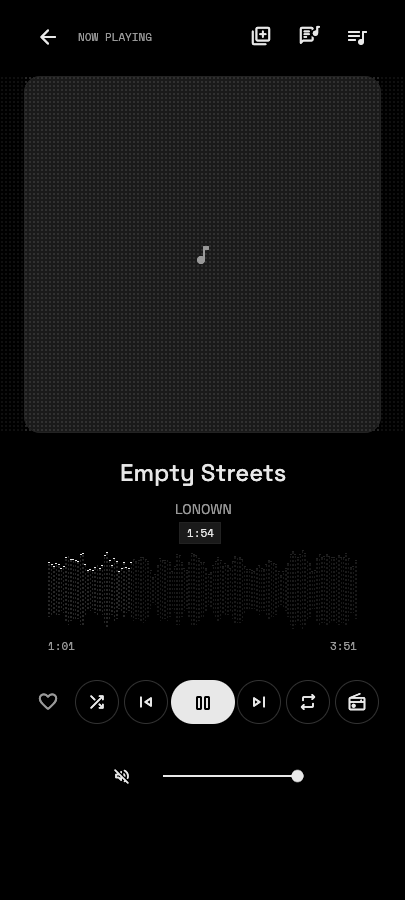
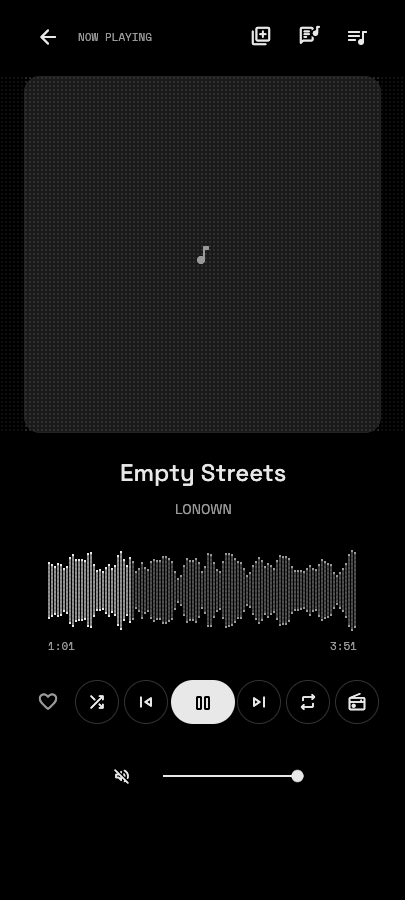
fix(player): solid waveform bars with a one pixel gap
- A 2 dp bar at the 3 dp pitch, with the bar count from the band width: 103 bars in the 309 dp player band, 6-81 px tall, drawn on integer edges so each column stays 2 px wide and every gap column stays empty.
- Dither rides on top of a base fill (played 0.55, unplayed 0.4) instead of replacing the bar; caps are 1 px rects top and bottom in on_surface / on_surface_variant.
- Half-pixel centres had grown the bars to three feathered columns at 15 % grey, which read as a dot raster instead of bars.
- Measured on the 405x900 shot: 103 bars, 102 empty 1 px gaps, max internal gap 1 px (0 columns above 2 px), caps 232 played / 153 unplayed, 28 played bars (27 %).
- Tests: bins_for_width pins 330 dp -> 110 and caps at 160 (116 total). Docs re-measured, manifest 275 files.

Changed region(s): [[0.1185, 0.56, 0.8889, 0.7156]]

diff --git a/crates/ui/src/widgets/waveform.rs b/crates/ui/src/widgets/waveform.rs
@@ -7,23 +7,30 @@
 
 use std::sync::Arc;
 
-use eframe::egui::{self, CursorIcon, Id, Pos2, Rect, Sense, Stroke, Ui, Vec2};
+use eframe::egui::{self, CursorIcon, Id, Pos2, Rect, Sense, Ui, Vec2};
 use egui::WidgetInfo;
 use ml_core::format_position;
 
 use super::{dither_bar, seek_bubble, seek_gesture, ProgressSliderResponse};
 use crate::theme::Theme;
 
-/// Bars per waveform: the reference sits at 120–160.
-pub const BINS: usize = 128;
+/// Bar pitch: a 2 dp bar with a 1 dp gap. The bar count follows the width;
+/// the reference's 120–160 bins only fit a 360–480 dp band at this pitch.
+pub const PITCH: f32 = 3.0;
+/// Width of one bar.
+const BAR_WIDTH: f32 = 2.0;
 /// Waveform band height in dp.
 pub const WAVE_HEIGHT: f32 = 80.0;
 /// Played bars: the design rule's upper dither bound.
 const PLAYED_STRENGTH: f32 = 0.3;
 /// Unplayed bars stay visible but recede.
 const UNPLAYED_STRENGTH: f32 = 0.2;
-/// Shortest bar so quiet passages still show a dotted line.
-const MIN_BAR: f32 = 8.0;
+/// Shortest bar so quiet passages still show a line.
+const MIN_BAR: f32 = 6.0;
+/// Base fill of a bar: the column must read end to end, the dither is texture
+/// inside it, not its replacement.
+const PLAYED_BASE: f32 = 0.55;
+const UNPLAYED_BASE: f32 = 0.4;
 
 /// Seek control drawn as a dithered bar waveform. Returns the same response
 /// shape as the line slider it replaces.
@@ -38,16 +45,27 @@ pub fn waveform_slider(
     let (rect, mut response) =
         ui.allocate_exact_size(Vec2::new(width, WAVE_HEIGHT), Sense::click_and_drag());
     let gesture = seek_gesture(ui, &mut response, position_ms, duration_ms, rect);
-    let bars = wave_bars(ui.ctx(), song_id);
+    let bins = bins_for_width(rect.width());
+    let bars = wave_bars(ui.ctx(), song_id, bins);
     let painter = ui.painter();
-    let bins = bars.len();
-    let pitch = rect.width() / bins as f32;
-    let bar_width = (pitch * 0.6).max(1.0);
+    // Integer edges: a half-pixel bar grew to three feathered columns and the
+    // 1 dp gaps lit up at 15 % grey.
+    let left = rect.left().round();
+    let center = rect.center().y.round();
     for (index, amplitude) in bars.iter().enumerate() {
-        let x = rect.left() + (index as f32 + 0.5) * pitch;
-        let height = MIN_BAR + amplitude * (rect.height() - MIN_BAR);
-        let bar = Rect::from_center_size(Pos2::new(x, rect.center().y), Vec2::new(bar_width, height));
+        let x = left + index as f32 * PITCH;
+        let height = (MIN_BAR + amplitude * (rect.height() - MIN_BAR)).round();
+        let top = center - (height / 2.0).round();
+        let bar = Rect::from_min_max(Pos2::new(x, top), Pos2::new(x + BAR_WIDTH, top + height));
         let played = bin_is_played(index, bins, gesture.shown);
+        // A continuous column carries the amplitude; the dot texture rides on
+        // top of it. A dither-only 2 dp bar fell apart into single dots.
+        let base = if played {
+            app_theme.scheme.on_surface.gamma_multiply(PLAYED_BASE)
+        } else {
+            app_theme.scheme.on_surface_variant.gamma_multiply(UNPLAYED_BASE)
+        };
+        painter.rect_filled(bar, 0, base);
         dither_bar(
             painter,
             bar,
@@ -57,18 +75,21 @@ pub fn waveform_slider(
                 UNPLAYED_STRENGTH
             },
         );
-        // 1-px cap: at 1.5 dp the dotted column alone would disappear in the
-        // unplayed strength, so the top edge carries the bar's colour.
-        painter.line_segment(
-            [bar.left_top(), bar.right_top()],
-            Stroke::new(
-                1.0,
-                if played {
-                    app_theme.scheme.on_surface
-                } else {
-                    app_theme.scheme.outline_variant
-                },
-            ),
+        // 1-px caps top and bottom: crisp ends instead of a frayed texture edge.
+        let cap = if played {
+            app_theme.scheme.on_surface
+        } else {
+            app_theme.scheme.on_surface_variant
+        };
+        painter.rect_filled(
+            Rect::from_min_max(bar.left_top(), Pos2::new(bar.right(), bar.top() + 1.0)),
+            0,
+            cap,
+        );
+        painter.rect_filled(
+            Rect::from_min_max(Pos2::new(bar.left(), bar.bottom() - 1.0), bar.right_bottom()),
+            0,
+            cap,
         );
     }
     if let Some((pointer, preview_ms)) = gesture.hover {
@@ -94,18 +115,23 @@ pub fn waveform_slider(
     }
 }
 
+/// Bars that fit the band at the 3 dp pitch (2 dp bar + 1 dp gap).
+pub fn bins_for_width(width: f32) -> usize {
+    ((width / PITCH).floor() as usize).clamp(1, 160)
+}
+
 /// Bars left of the played fraction.
 pub fn bin_is_played(index: usize, bins: usize, shown: f32) -> bool {
     bins > 0 && (index as f32) < shown * bins as f32
 }
 
-/// Bar heights for `song_id`, cached per context: one build per track.
-fn wave_bars(ctx: &egui::Context, song_id: &str) -> Arc<Vec<f32>> {
-    let id = Id::new(("waveform-bars", song_id));
+/// Bar heights for `song_id`, cached per context: one build per track/width.
+fn wave_bars(ctx: &egui::Context, song_id: &str, bins: usize) -> Arc<Vec<f32>> {
+    let id = Id::new(("waveform-bars", song_id, bins));
     if let Some(bars) = ctx.data(|data| data.get_temp::<Arc<Vec<f32>>>(id)) {
         return bars;
     }
-    let bars = Arc::new(generate_bars(song_id, BINS));
+    let bars = Arc::new(generate_bars(song_id, bins));
     ctx.data_mut(|data| data.insert_temp(id, bars.clone()));
     bars
 }
@@ -172,15 +198,26 @@ mod tests {
     }
 
     #[test]
+    fn bins_follow_the_three_dp_pitch() {
+        // 330 dp band (405 px window): 110 bars of 2 dp + 1 dp gap.
+        assert_eq!(bins_for_width(330.0), 110);
+        assert_eq!(bins_for_width(331.5), 110);
+        assert_eq!(bins_for_width(460.0), 153);
+        assert_eq!(bins_for_width(1.0), 1);
+        assert_eq!(bins_for_width(10_000.0), 160);
+    }
+
+    #[test]
     fn bars_are_deterministic_and_seeded() {
-        let a = generate_bars("oWqnJdGy_84", BINS);
-        let b = generate_bars("oWqnJdGy_84", BINS);
+        let bins = bins_for_width(330.0);
+        let a = generate_bars("oWqnJdGy_84", bins);
+        let b = generate_bars("oWqnJdGy_84", bins);
         assert_eq!(a, b, "same song, same bars");
-        assert_eq!(a.len(), BINS);
+        assert_eq!(a.len(), bins);
         assert!(a.iter().all(|value| *value > 0.0 && *value <= 1.0));
         let peak = a.iter().copied().fold(0.0f32, f32::max);
         assert!((peak - 1.0).abs() < 1e-4, "peak normalised: {peak}");
-        assert_ne!(a, generate_bars("another-song", BINS));
+        assert_ne!(a, generate_bars("another-song", bins));
     }
 
     #[test]

diff --git a/docs/PARITY.md b/docs/PARITY.md
@@ -29,7 +29,7 @@ Status vocabulary:
 | Gapless playback / prefetch | `playback/MusicService.kt` | **Done** | `crates/audio/src/engine.rs` (`--gapless-audio`, `--prefetch-playlist`), `controller.rs::prefetch_next`; `controller.rs` tests | End-of-file advances the queue pointer without reloading. Clicking the queue entry that is already loaded is a no-op (or resumes when paused) instead of restarting mpv; the old reload measured ~0.47 s to the next audio frame. |
 | Stream quality selection | `AudioQualityKey`, `FormatEntity` | **Partial** | `crates/core/src/settings.rs`, `crates/innertube/src/player.rs::select_format` | Three levels (Auto/Low/High). No per-itag or per-codec picker. |
 | URL cache and expiry | `playback/StreamUrlCache.kt` | **Done** | `crates/innertube/src/stream.rs`; Verus `proofs/media` (`is_expired`) | In-memory per `(video_id, quality)` with a 300 s safety margin. Not persisted to disk. |
-| Player transport and now-playing links | `ui/player/PlayerScreen.kt`, `ui/player/Queue.kt` | **Done** | `crates/ui/src/screens/player.rs`, `crates/ui/src/widgets/controls.rs`, `crates/ui/src/app.rs` (`PlayerAction::{StartRadio,OpenArtist}`) | Radio button immediately right of Repeat starts the existing `next` radio queue and shows an active dot for a `QueueSource::Radio` queue. The artist byline (and every `SongRowResponse` artist line, first artist with an id) opens `Route::Artist`; rows without an artist channel id stay plain text and keep the row play action. The timeline is a dithered bar waveform (`waveform_slider`, 128 bars from a stable hash of the song id, cached once per track): played bars carry the 0.3 dither with white caps, unplayed 0.2 with dim caps; the pointer follows on drag and one seek is sent on release, with the hover/drag time bubble; click/drag mapping preserves the previous ±8 dp track tolerance | `ui/player/PlaybackError.kt` | **Partial** | `crates/ui/src/app.rs` (`playback_error`), `crates/ui/src/screens/player.rs` (inline reason + Retry) | The open player shows the reason in `on_error_container` with a RETRY button and suppresses the duplicate toast; the shell keeps the toast. There is still no copyable diagnostics dialog. |
+| Player transport and now-playing links | `ui/player/PlayerScreen.kt`, `ui/player/Queue.kt` | **Done** | `crates/ui/src/screens/player.rs`, `crates/ui/src/widgets/controls.rs`, `crates/ui/src/app.rs` (`PlayerAction::{StartRadio,OpenArtist}`) | Radio button immediately right of Repeat starts the existing `next` radio queue and shows an active dot for a `QueueSource::Radio` queue. The artist byline (and every `SongRowResponse` artist line, first artist with an id) opens `Route::Artist`; rows without an artist channel id stay plain text and keep the row play action. The timeline is a dithered bar waveform (`waveform_slider`, 2 dp bars at a 3 dp pitch with the bin count from the band width, heights from a stable hash of the song id and cached per track/width): played bars carry the 0.3 dither over a 0.55 base with white caps, unplayed 0.2 over 0.4 with `on_surface_variant` caps; the pointer follows on drag and one seek is sent on release, with the hover/drag time bubble; click/drag mapping preserves the previous ±8 dp track tolerance | `ui/player/PlaybackError.kt` | **Partial** | `crates/ui/src/app.rs` (`playback_error`), `crates/ui/src/screens/player.rs` (inline reason + Retry) | The open player shows the reason in `on_error_container` with a RETRY button and suppresses the duplicate toast; the shell keeps the toast. There is still no copyable diagnostics dialog. |
 | Background playback | `MusicService` foreground service | **Partial** | `crates/ui/src/desktop.rs`; `crates/ui/src/screens/settings.rs` | Hiding the window from the tray keeps audio playing; closing/quitting stops playback. No separate daemon. |
 | Bluetooth resume, audio focus, offload, keep-screen-on | `MusicService`, prefs | **N/A** | — | Desktop audio stack (PipeWire/PulseAudio) owns routing and focus. |
 

diff --git a/docs/UI-AUDIT.md b/docs/UI-AUDIT.md
@@ -12,7 +12,7 @@ Fresh capture of the Nothing redesign; source reviewed, nothing fabricated.
 | No Material 3 dependency | `grep -c material-colors Cargo.lock` | 0 |
 | Boot overlay | `cargo`-free proof in `docs/ui-boot-sequence{,-done}.png`; `BOOT modules=10 total_ms=1760` | shown |
 | Queue covers | `--demo queue` → `docs/ui-queue.png` (405×900) | 40 px covers with 1 px frame; row 3 dithered placeholder: base 26, dots 48, 4 px period |
-| Player waveform | `--demo player` → `docs/ui-waveform.png` (405×900) | 128 bars, 80 dp; played caps near-white (col max ≥180 only left of the played boundary), unplayed ≤26; hover bubble 1:54 at 49 % |
+| Player waveform | `--demo player` → `docs/ui-waveform.png` (405×900) | 103 bars at a 3 dp pitch (2 dp wide, 1 empty column each), band x 48…355; 0 columns with an internal gap >2 px (max 1 px); played 28 bars, cap 232, body 128-148; unplayed cap 153, body ≤81; pointer x=200 of 48…355 → bubble 1:54 (49 %) |
 
 Contrast (WCAG 2.1, computed from the palette, not sampled from pixels):
 

diff --git a/docs/RELEASE-CHECK.md b/docs/RELEASE-CHECK.md
@@ -308,9 +308,11 @@ cookie file). The per-package split in the 0.1.2 section was not re-measured;
   (`PlayerAction::StartRadio`): immediately right of Repeat, with an active dot
   for a `QueueSource::Radio` queue.
 - **Progress timeline** — `widgets/waveform.rs::waveform_slider` on the shared
-  `controls.rs::seek_gesture`: 128 seeded bars in the Nothing dot dither
-  (played 0.3, unplayed 0.2, 1-px caps), hover/drag time bubble, one seek on
-  release, bars cached once per track.
+  `controls.rs::seek_gesture`: 2 dp bars at a 3 dp pitch (bins from the band
+  width), listed heights from a stable seed, the Nothing dot dither over a base
+  fill (played 0.3/0.55, unplayed 0.2/0.4, 1-px caps top and bottom),
+  hover/drag time bubble, one seek on release, bars cached once per track and
+  width.
 - **Liked Songs Play All** — `app.rs::Intent::PlayAll` and `screens/liked.rs`:
   immediate snapshot and mini player; delegates the radio decision to the
   proven `pure::play_starts_radio`, so a one-song liked list does not become

diff --git a/docs/BUILD.md b/docs/BUILD.md
@@ -60,7 +60,7 @@ dist/SHA256SUMS
 ```text
 dist/Metrolist-Desktop-0.1.3-x86_64.AppImage
 size:   121031160 bytes
-sha256: 19307f8a6a8bf7e4359ced4bb0076871dee0419da16900d47f7fe2b690c91894
+sha256: 5a9414a70481d3f8ae9f89010f29893b297afece1d259a827025f423f29c384c
 app:    max GLIBC_2.35 (container build)
 mpv:    0.35.1, max GLIBC_2.34
 ```
@@ -75,8 +75,8 @@ GLIBC floor. `dist/SNAPSHOT.txt` records the checks, mpv bundle and runtime
 dependencies.
 
 The manifest is packaging provenance, not the proof freeze. After the
-home-view work (2026-11-27) the working tree is **273 files**, self-sha
[1 lines of base64/hex data omitted]
+home-view work (2026-11-27) the working tree is **275 files**, self-sha
[1 lines of base64/hex data omitted]
 `sha256sum -c --quiet docs/SOURCE-FREEZE.sha256` exits 0. No release artifact was
 rebuilt, so the 0.1.3 numbers above still describe the 247-file release tree.
 
